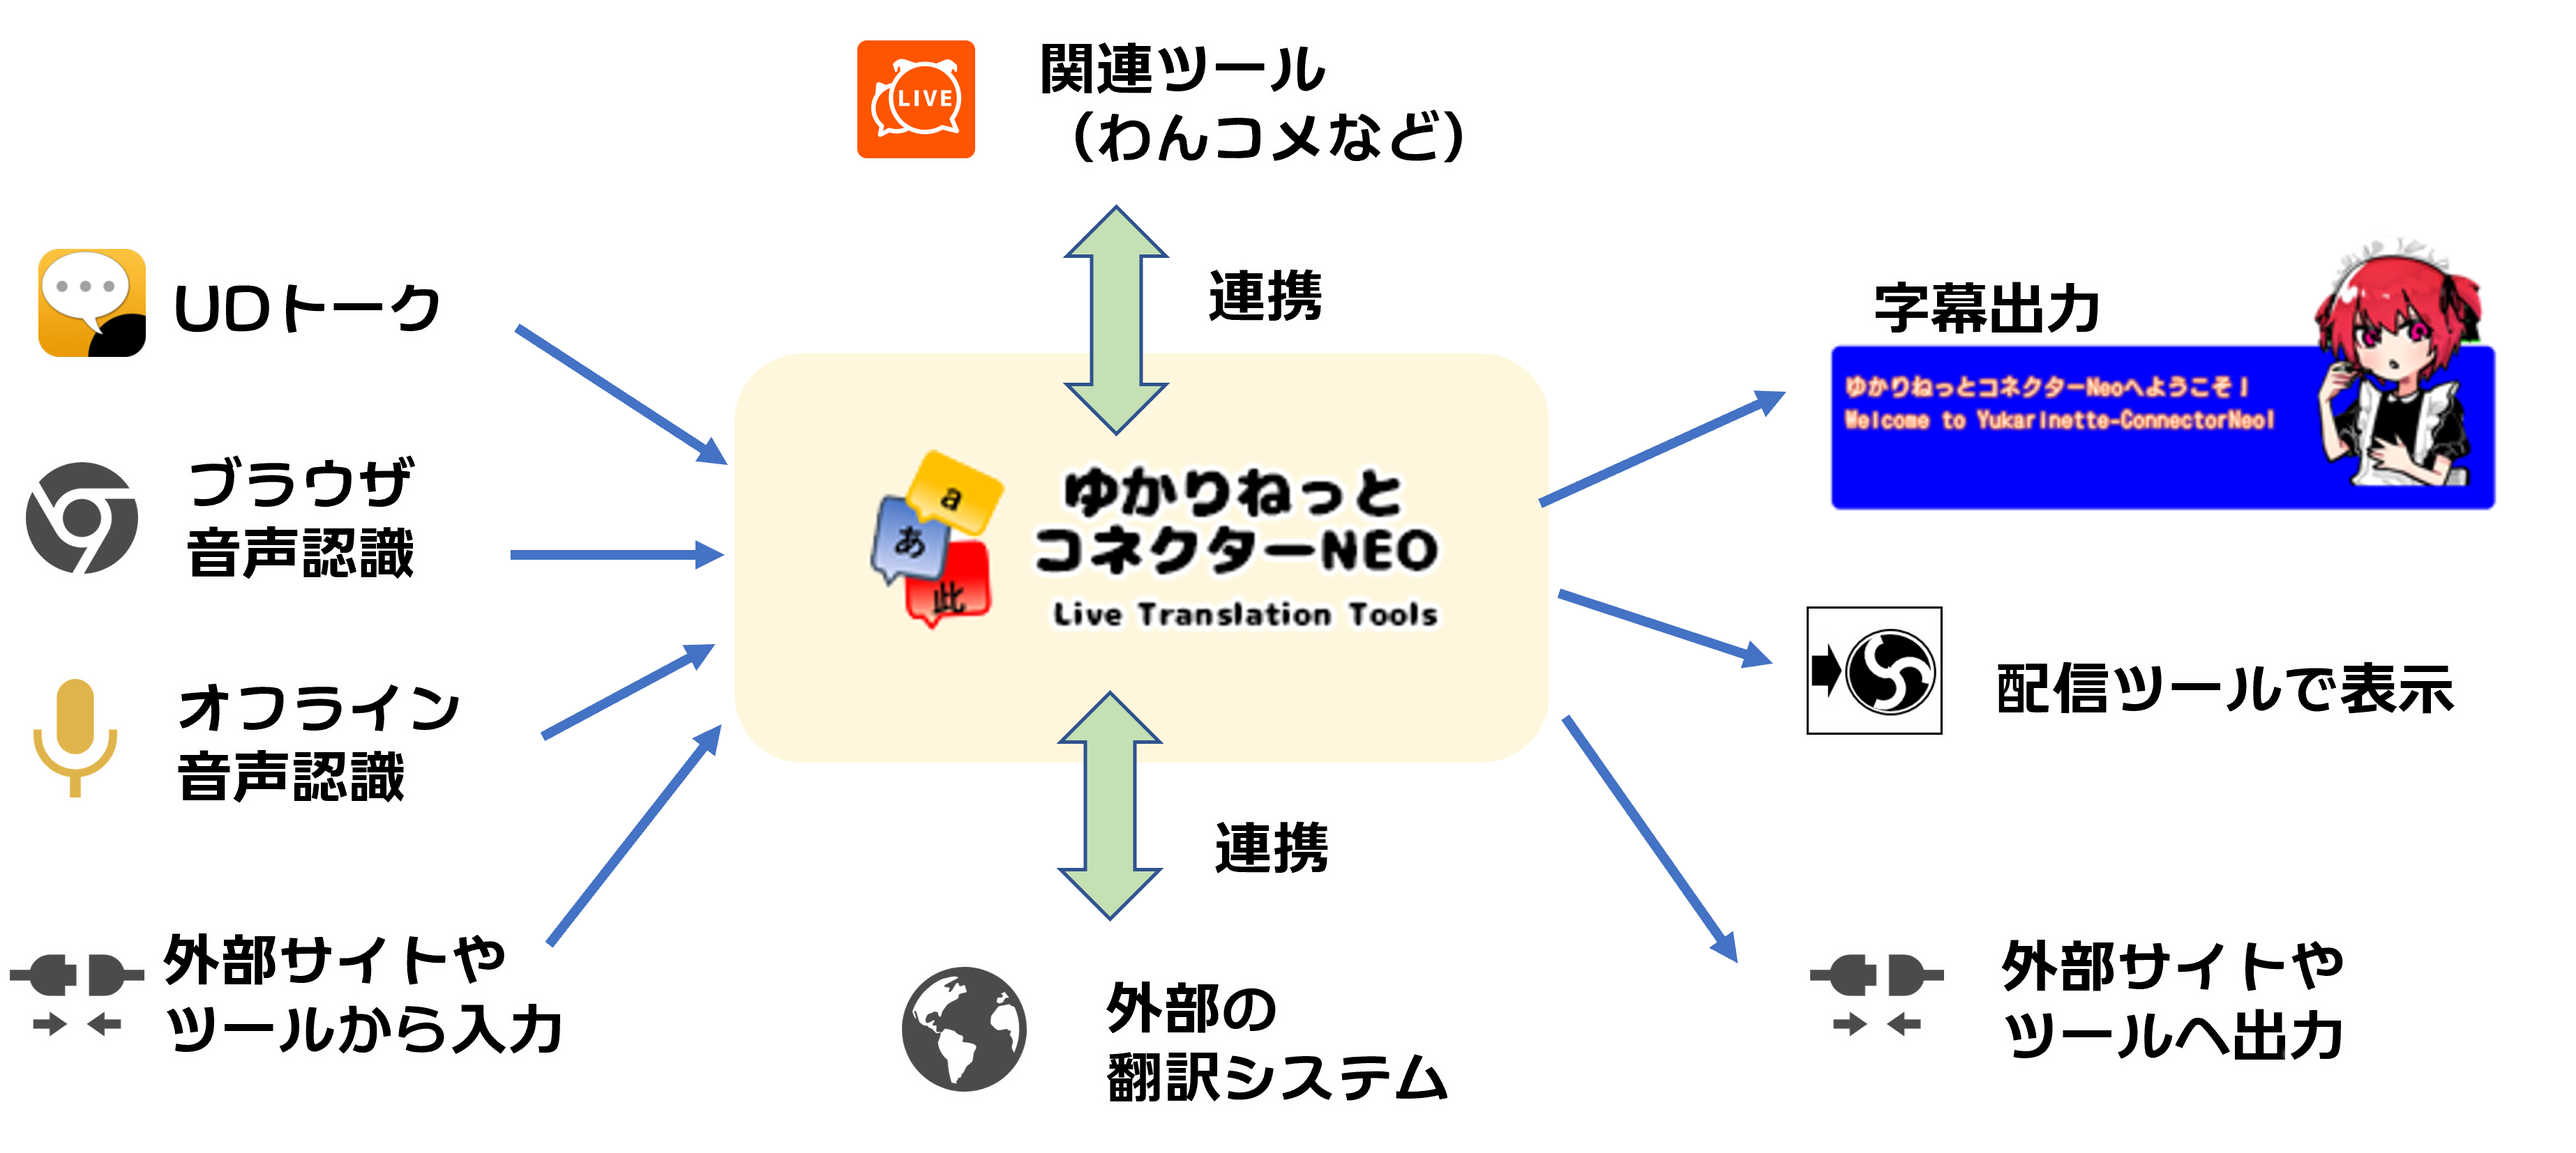
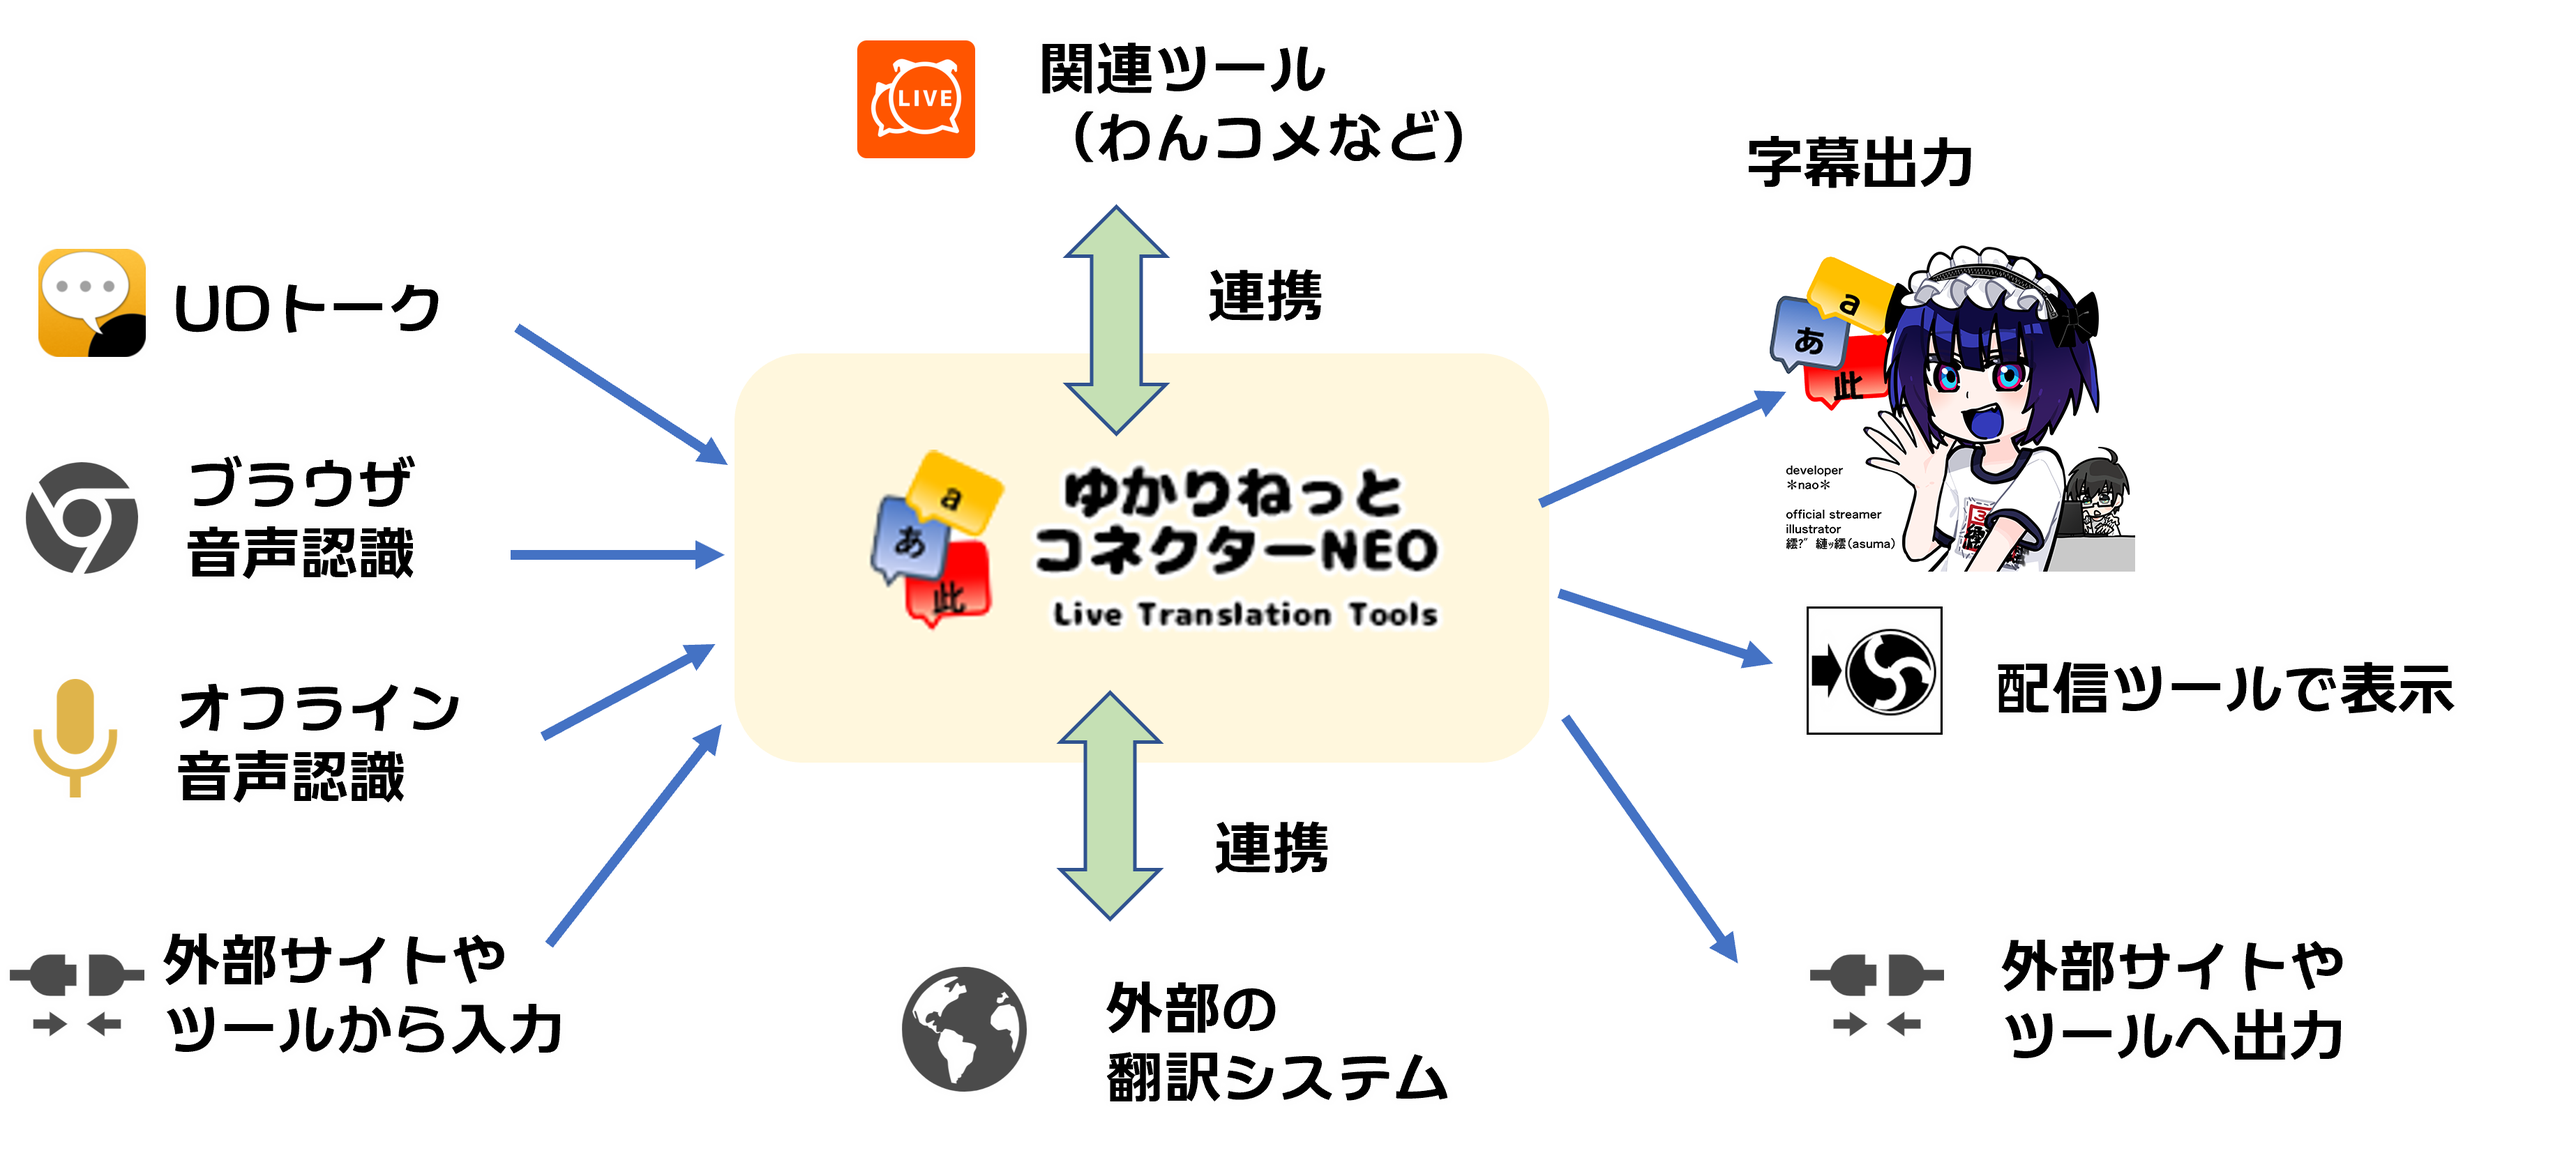
v2.0.148対応

Changed region(s): [[0.6851, 0.2158, 0.9965, 0.4933], [0.6851, 0.1233, 0.7785, 0.185]]

diff --git a/docs/usecase.md b/docs/usecase.md
@@ -20,6 +20,16 @@
     ワンポイント一言
     「世界中の人たちとお友達になれる魔法のツール！」
 
+#### ゆきひこさん
+!!! Abstract "ゆきひこさん　 [:fontawesome-brands-twitch:{ .twitch }](　https://www.twitch.tv/yukihiko78)"
+    <iframe src="https://player.twitch.tv/?video=1788921012&time=0h18m54s&parent=nmori.github.io" frameborder="0" allowfullscreen="true" scrolling="no" height="378" width="620"></iframe>
+
+    ** 一言コメント **   
+    2023年3月から Twitch で配信を始めたばかりの初心者です。
+
+    僕自身は日本語しかできないので、このツールがなかったら海外の方と意思疎通はできませんし、ゲーム配信をしてみようと考えることもなかったと思います。
+    ゆかりねっとコネクターNEO と TwiChaDash を使用して、世界中にフレンドの輪を広げていきたいです。
+    
 ### わんコメ併用
 #### びたぁずさん
 !!! Abstract "びたぁずさん　 [:fontawesome-brands-twitch:{ .twitch }](https://www.twitch.tv/bitterzzzzzz)"
@@ -52,15 +62,16 @@
     ** 一言コメント **   
     　リアルタイム音声認識によるボイスロイド実況＋2か国語字幕＋わんコメ（WordParty）の合わせ技です🥳 ✨ 
 
-### 読み上げと翻訳併用
-#### 甘え隊さん
-!!! Abstract "甘え隊さん　 [:material-web:{ .niconico }](https://www.nicovideo.jp/user/121614426)"
-    <iframe width="560" height="315" src="https://www.youtube.com/embed/4UdlKYVAkcQ?start=2258" title="YouTube video player" frameborder="0" allow="accelerometer; autoplay; clipboard-write; encrypted-media; gyroscope; picture-in-picture" allowfullscreen></iframe>
+#### 湧浦カランさん
+!!! Abstract "湧浦カランさん　 [:fontawesome-brands-youtube:{ .youtube }](　https://www.youtube.com/@WakuuraKaranTV)"
+    <iframe width="560" height="315" src="https://www.youtube.com/live/es9yrPvc_vE?feature=share&t=319" title="YouTube video player" frameborder="0" allow="accelerometer; autoplay; clipboard-write; encrypted-media; gyroscope; picture-in-picture" allowfullscreen></iframe>
 
     ** 一言コメント **   
-    いざという時でも喋れちゃうEdgeの音声認識や
-    テキストでの綺麗な字幕出力・翻訳機能などとても助かっております！ 
-    
+    海外での展開がメインのメックウォーリアというロボットゲームをメインコンテツとして配信しており、コメントに英語圏の方が来てくださるのでその際に受け答えにとても重宝しています。
+
+    配信の時にはこんな感じで日本語字幕と英語字幕を併用しています。視認性を維持するため、字幕は日本語・英語に絞っており、見やすい画面配置になっていると自負しています！ 
+
+
 ### リスト表示活用
 #### むらづき/ Muradukiさん
 !!! Abstract "むらづき/ Muradukiさん　 [:fontawesome-brands-twitch:{ .twitch }](https://www.twitch.tv/muraduki)"

diff --git a/docs/system_info.md b/docs/system_info.md
@@ -23,6 +23,7 @@
     　・IBM Cloud(Watson)
     　・NAVER Cloud platform
     　・Sakura internet
+    　・OpenAI GPT
     ```
 * ユーザは上記サービスに反しない利用をすることを了承し、ユーザの過失によりプログラム提供側に不利益・被害が発生する場合には、使用を中止するとともに、使用者が当該部分における損害賠償を行うことに合意したとみなします。
 　
@@ -52,6 +53,7 @@
     * 帰属表示など、使用にあたって必要とされる項目においては、字幕を活用する人が対応する必要があります。
 
 ## プライバシーに関する表記
+
 * Microsoft:[プライバシーに関する規約](https://azure.microsoft.com/ja-jp/support/legal/cognitive-services-compliance-and-privacy/)
 * Google：[プライバシーに関する規約](https://policies.google.com/privacy?hl=ja)
 * Youtube：[プライバシーに関する規約](https://www.youtube.com/t/terms)
@@ -60,15 +62,13 @@
 * IBM Watson:[規約](https://www.ibm.com/jp-ja/legal?lnk=flg-tous-jpja)
 * DeepL Pro:[規約](https://www.deepl.com/ja/pro-license/)
 
+* OpenAI:[規約](https://openai.com/policies/terms-of-use/)
+
 !!! Warn "Google翻訳について"
     このサービスには、Google により提供される翻訳が含まれる場合があります。Google は、明示的か黙示的かを問わず、翻訳に関するすべての保証（精度、信頼性に関するあらゆる保証、および商品性、特定目的への適合性、第三者の権利の非侵害性に関するあらゆる黙示的保証を含みます）を放棄します。
 
 !!! Warn "Microsoft翻訳について"
     このサービスには、Microsoft により提供される翻訳が含まれる場合があります。取り扱われるデータは[Microsoftの規約](https://privacy.microsoft.com/ja-jp/privacystatement)に基づいて処理が行われます。
-　
 
 !!! Warn "ＵＤトークについて"
     音声認識はＵＤトークが提供するGoogleもしくはAmiVoice Cloudの音声翻訳を用いることがあります。ＵＤトークの[プライバシーポリシー](http://udtalk.jp/license/)は利用契約形態によります。アプリもしくは契約時のポリシーをご覧ください。
-
-
-

diff --git a/docs/supporter/supporter.md b/docs/supporter/supporter.md
@@ -9,13 +9,14 @@
         ただの文字情報から「楽しめる文字情報」、そして言語を超えた交流の先にある
         「楽しい」をみんなで作っていきましょう。
 
-## 公式イラストレーター
+## 公式ストリーマー・イラストレーター
 
-!!! Abstract "asuma"
-    ![asuma](images/asuma.png){ align=left } 
+!!! Abstract "ASUMA(あすま) 　 [:fontawesome-brands-twitter:{ .twitter }(Stream)](https://twitter.com/ASU5M843A)　[:fontawesome-brands-twitter:{ .twitter }(Art)](https://twitter.com/asu5m843B)　[:fontawesome-brands-youtube:{ .youtube }](https://www.youtube.com/@ASU5M843A)　[:fontawesome-brands-twitch:{ .twitch }](https://www.twitch.tv/asu5m843a)"
+    ![asuma](images/asuma.png){ align=left }
+        一言コメント
 
-    * ゆかりねっとコネクターを支えるイラストレーター。
-    * ゆかりねっとコネクター内のイラスト、キャラクターデザインを担当しています。
+        ゆかコネ公式ストリーマー・イラストレーターを
+        させていただいてるASUMAです！よろしくお願いします！
 
 ## 公式ガイド
 

diff --git a/docs/download.md b/docs/download.md
@@ -34,7 +34,7 @@
 
 ## 開発版（早期アクセス）
 
-### v2.0.144：[コミュニティへアクセス](https://discord.gg/Pyk5EwVrXQ)
+### v2.0.148：[コミュニティへアクセス](https://discord.gg/Pyk5EwVrXQ)
 
 !!! Tech "早期適用をしたい方はこちらをどうぞ"
 
@@ -46,6 +46,8 @@
 !!! Warning "導入に関する注意"
     * バージョン1 とバージョン2 は仕組みが大きく異なるので、バージョンを戻す場合には上書きインストールせず、設定を含めてアンインストールしてから導入してください
 
+!!! Warning "サポート終了"
+    * 速めにv2へバージョンアップをお願いします
 ### v1.9594：[ダウンロード](https://machanbazaar.com/wp-content/uploads/2022/08/YNCneo_v1.9594.zip)
 
 ## 補足情報
